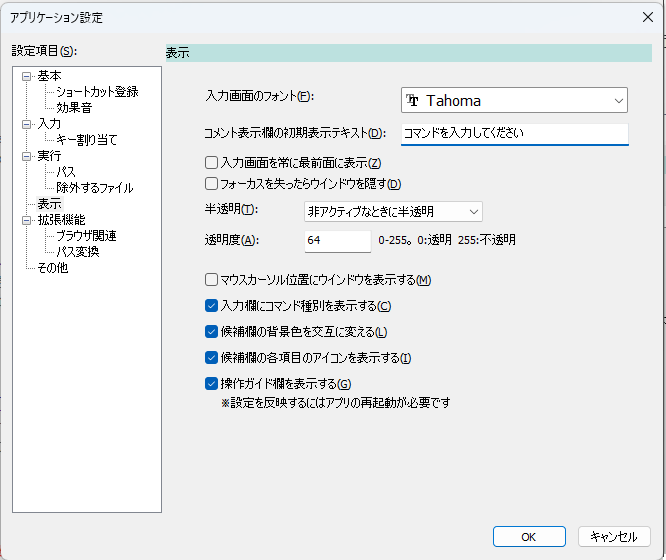
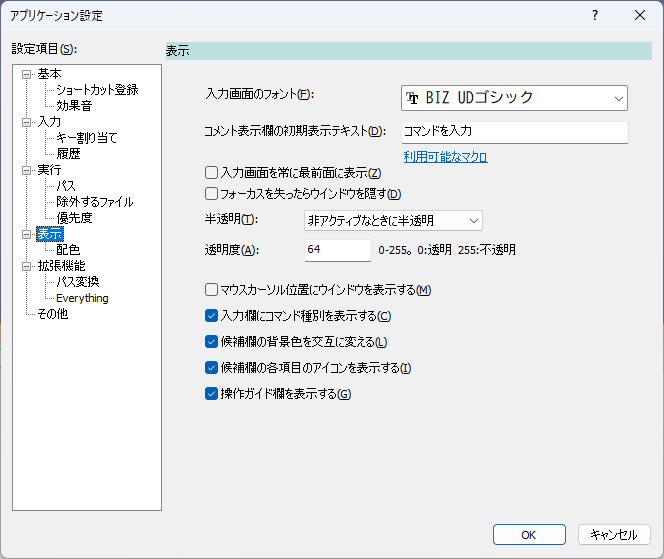
リサイズ時の処理を自前で行うようにした

diff --git a/soyokaze/mainwindow/MainWindowLayout.cpp b/soyokaze/mainwindow/MainWindowLayout.cpp
@@ -1,0 +1,186 @@
+#include "pch.h"
+#include "MainWindowLayout.h"
+#include "resource.h"
+#include "setting/AppPreference.h"
+#include "setting/AppPreferenceListenerIF.h"
+#include "SharedHwnd.h"
+
+#ifdef _DEBUG
+#define new DEBUG_NEW
+#endif
+
+struct MainWindowLayout::PImpl : public AppPreferenceListenerIF
+{
+	PImpl()
+	{
+		AppPreference::Get()->RegisterListener(this);
+	}
+	virtual ~PImpl()
+	{
+		AppPreference::Get()->UnregisterListener(this);
+	}
+
+	void OnAppFirstBoot() override
+	{
+	}
+	void OnAppNormalBoot() override {}
+
+	void OnAppPreferenceUpdated() override
+	{
+		AppPreference* pref = AppPreference::Get();
+		mIsShowGuide = pref->IsShowGuide();
+
+		SharedHwnd hwnd;
+		mThisPtr->RecalcControls(hwnd.GetHwnd());
+	}
+
+	void OnAppExit() override
+	{
+	}
+
+	bool IsShowGuide()
+	{
+		if (mIsFirstCall) {
+			AppPreference* pref = AppPreference::Get();
+			mIsShowGuide = pref->IsShowGuide();
+			mIsFirstCall = false;
+		}
+		return mIsShowGuide;
+	}
+
+	void MapWindowRect(HWND hwndFrom, HWND hwndTo, RECT* rc)
+	{
+		CPoint points[] = { CPoint(rc->left, rc->top), CPoint(rc->right, rc->bottom) };
+
+		MapWindowPoints(hwndFrom, hwndTo, points, 2);
+
+		rc->left = points[0].x;
+		rc->top = points[0].y;
+		rc->right = points[1].x;
+		rc->bottom = points[1].y;
+	}
+
+	MainWindowLayout* mThisPtr = nullptr;
+	bool mIsFirstCall = true;
+	bool mIsShowGuide = false;
+
+};
+
+MainWindowLayout::MainWindowLayout() : in(new PImpl)
+{
+	in->mThisPtr = this;
+}
+
+MainWindowLayout::~MainWindowLayout()
+{
+}
+
+void MainWindowLayout::RecalcWindowSize(HWND hwnd, UINT side, LPRECT rect)
+{
+	UNREFERENCED_PARAMETER(hwnd);
+	UNREFERENCED_PARAMETER(side);
+	UNREFERENCED_PARAMETER(rect);
+	// ToDo: 必要に応じて実装
+}
+
+void MainWindowLayout::RecalcControls(HWND hwnd)
+{
+	CWnd* parent = CWnd::FromHandle(hwnd);
+
+	// ウインドウ全体サイズとクライアント領域の差から外枠サイズを得る
+	CRect rcParentC;
+	parent->GetClientRect(&rcParentC);
+
+	CRect rcParent;
+	parent->GetWindowRect(&rcParent);
+
+	CSize sizeFrame(rcParent.Width() - rcParentC.Width(), rcParent.Height() - rcParentC.Height());
+
+	CPoint pt;
+	CRect rc;
+
+	auto iconLabel = parent->GetDlgItem(IDC_STATIC_ICON);
+	if (iconLabel == nullptr) {
+		// ウインドウ初期化が終わっていない場合はコントロールを取得できないのでここで抜ける
+		return;
+	}
+
+	// アイコン表示欄(移動もリサイズもしない)
+	CPoint ptIcon(2,2);
+	iconLabel->SetWindowPos(nullptr, pt.x, pt.y, 0, 0, SWP_NOZORDER | SWP_NOSIZE);
+	CRect rcIcon;
+	iconLabel->GetWindowRect(&rcIcon);
+
+	// コメント欄のリサイズ
+	auto comment = parent->GetDlgItem(IDC_STATIC_DESCRIPTION);
+
+	comment->GetWindowRect(&rc);
+
+	CPoint ptComment(ptIcon.x + rcIcon.Width() + 2, 2);
+
+	int cx = rcParentC.Width() - ptComment.x - 2;
+	int cy = rc.Height();
+
+	spdlog::debug("comment xywh=({},{},{},{})", ptComment.x, ptComment.y, cx, cy);
+	comment->SetWindowPos(nullptr, ptComment.x, ptComment.y, cx, cy, SWP_NOZORDER);
+	CRect rcComment;
+	comment->GetWindowRect(&rcComment);
+
+	comment->InvalidateRect(nullptr);
+	comment->UpdateWindow();
+
+	// ガイド欄を表示している場合はガイド欄のリサイズ
+	auto guide = parent->GetDlgItem(IDC_STATIC_GUIDE);
+
+	bool isShowGuide = in->IsShowGuide();
+	if (isShowGuide) {
+
+		guide->ShowWindow(SW_SHOW);
+
+		CPoint ptGuide(ptComment.x, ptComment.y + rcComment.Height()+1);
+
+		// 幅,高さ(cx,cy)はコメント欄と同じ
+		guide->SetWindowPos(nullptr, ptGuide.x, ptGuide.y, cx, cy, SWP_NOZORDER);
+
+		guide->InvalidateRect(nullptr);
+		guide->UpdateWindow();
+	}
+	else {
+		guide->ShowWindow(SW_HIDE);
+	}
+
+	// 入力欄
+	auto edit = parent->GetDlgItem(IDC_EDIT_COMMAND);
+	edit->GetWindowRect(&rc);
+
+	CPoint ptEdit(isShowGuide ? CPoint(ptIcon.x, ptIcon.y + rcIcon.Height() + 1)
+	                          : CPoint(ptComment.x, ptComment.y + rcComment.Height() + 1));		           
+
+	cx = rcParentC.Width() - ptEdit.x - 2;
+	cy = rc.Height();
+
+	edit->SetWindowPos(nullptr, ptEdit.x, ptEdit.y, cx, cy, SWP_NOZORDER);
+
+	edit->InvalidateRect(nullptr);
+	edit->UpdateWindow();
+
+	CRect rcEdit;
+	edit->GetWindowRect(&rcEdit);
+
+	// 候補欄
+	auto listCtrl = parent->GetDlgItem(IDC_LIST_CANDIDATE);
+
+	listCtrl->GetWindowRect(&rc);
+
+	CPoint ptList(ptIcon.x, ptEdit.y + rcEdit.Height() + 1);
+
+	cx = rcParentC.Width() - ptList.x - 2;
+	cy = rcParentC.Height() - ptList.y - 4;
+
+	listCtrl->SetWindowPos(nullptr, ptList.x, ptList.y, cx, cy, SWP_NOZORDER);
+
+	listCtrl->InvalidateRect(nullptr);
+	listCtrl->UpdateWindow();
+}
+
+

diff --git a/soyokaze/mainwindow/LauncherMainWindow.cpp b/soyokaze/mainwindow/LauncherMainWindow.cpp
@@ -8,6 +8,7 @@
 #include "app/Manual.h"
 #include "mainwindow/LauncherMainWindow.h"
 #include "mainwindow/CandidateListCtrl.h"
+#include "mainwindow/MainWindowLayout.h"
 #include "commands/core/CommandRepository.h"
 #include "commands/core/CommandParameter.h"
 #include "commands/common/Clipboard.h"
@@ -120,6 +121,8 @@ struct LauncherMainWindow::PImpl
 	UINT_PTR mInputTimerId = 0;
 
 	bool mShouldColorInit = true;
+
+	std::unique_ptr<MainWindowLayout> mLayout;
 };
 
 void LauncherMainWindow::PImpl::RestoreWindowPosition(CWnd* thisPtr, bool isForceReset)
@@ -170,10 +173,11 @@ void LauncherMainWindow::PImpl::UpdateCommandString(core::Command* cmd, int& sta
 // LauncherMainWindow ダイアログ
 
 LauncherMainWindow::LauncherMainWindow(CWnd* pParent /*=nullptr*/)
-	: CDialogEx(AppPreference::Get()->IsShowGuide() ? IDD_MAIN_GUIDE : IDD_MAIN, pParent),
+	: CDialogEx(IDD_MAIN_GUIDE, pParent),
 	in(std::make_unique<PImpl>(this))
 {
 	in->mWindowTransparencyPtr = std::make_unique<WindowTransparency>();
+	in->mLayout = std::make_unique<MainWindowLayout>();
 
 	in->mCandidateListBox.SetCandidateList(&in->mCandidates);
 	AppPreference::Get()->RegisterListener(this);
@@ -209,6 +213,7 @@ BEGIN_MESSAGE_MAP(LauncherMainWindow, CDialogEx)
 	ON_NOTIFY(LVN_ITEMCHANGED, IDC_LIST_CANDIDATE, OnLvnItemChange)
 	ON_NOTIFY(NM_CLICK, IDC_LIST_CANDIDATE, OnNMClick)
 	ON_NOTIFY(NM_DBLCLK, IDC_LIST_CANDIDATE, OnNMDblclk)
+	ON_WM_SIZING()
 	ON_WM_SIZE()
 	ON_MESSAGE(WM_APP+2, OnUserMessageActiveWindow)
 	ON_MESSAGE(WM_APP+3, OnUserMessageRunCommand)
@@ -1450,9 +1455,17 @@ void LauncherMainWindow::OnNMDblclk(NMHDR* pNMHDR, LRESULT* pResult)
 	OnOK();
 }
 
+void LauncherMainWindow::OnSizing(UINT side, LPRECT rect)
+{
+	__super::OnSizing(side, rect);
+	in->mLayout->RecalcWindowSize(GetSafeHwnd(), side, rect);
+	in->mLayout->RecalcControls(GetSafeHwnd());
+}
+
 void LauncherMainWindow::OnSize(UINT type, int cx, int cy)
 {
 	__super::OnSize(type, cx, cy);
+	in->mLayout->RecalcControls(GetSafeHwnd());
 
 	if (in->mCandidateListBox.GetSafeHwnd()) {
 		in->mCandidateListBox.UpdateSize(cx, cy);

diff --git a/soyokaze/mainwindow/MainWindowLayout.h b/soyokaze/mainwindow/MainWindowLayout.h
@@ -1,0 +1,21 @@
+#pragma once
+
+#include "mainwindow/MainWindowLayoutIF.h"
+
+// メインウインドウのリサイズ時にウインドウ上のコントロールを再計算する
+class MainWindowLayout : public MainWindowLayoutIF
+{
+public:
+	MainWindowLayout();
+	~MainWindowLayout() override;
+
+	// リサイズ中のメインウインドウのサイズ制限を決定する
+	void RecalcWindowSize(HWND hwnd, UINT side, LPRECT rect) override;
+	// リサイズ時のコントロール位置・サイズの再計算
+	void RecalcControls(HWND hwnd) override;
+
+private:
+	struct PImpl;
+	std::unique_ptr<PImpl> in;
+};
+

diff --git a/soyokaze/mainwindow/LauncherMainWindow.h b/soyokaze/mainwindow/LauncherMainWindow.h
@@ -96,6 +96,7 @@ protected:
 	afx_msg void OnLvnItemChange(NMHDR* pNMHDR, LRESULT* pResult);
 	afx_msg void OnNMClick(NMHDR* pNMHDR, LRESULT* pResult);
 	afx_msg void OnNMDblclk(NMHDR* pNMHDR, LRESULT* pResult);
+	afx_msg void OnSizing(UINT side, LPRECT rect);
 	afx_msg void OnSize(UINT type, int cx, int cy);
 	LRESULT OnUserMessageActiveWindow(WPARAM wParam, LPARAM lParam);
 	LRESULT OnUserMessageRunCommand(WPARAM wParam, LPARAM lParam);

diff --git a/soyokaze/mainwindow/MainWindowLayoutIF.h b/soyokaze/mainwindow/MainWindowLayoutIF.h
@@ -1,0 +1,12 @@
+#pragma once
+
+// メインウインドウのコントロールの配置(リサイズ)処理を実装するためのインタフェース
+class MainWindowLayoutIF
+{
+public:
+	virtual ~MainWindowLayoutIF() {}
+
+	virtual void RecalcWindowSize(HWND hwnd, UINT side, LPRECT rect) = 0;
+	virtual void RecalcControls(HWND hwnd) = 0;
+};
+

diff --git a/soyokaze/resource.h b/soyokaze/resource.h
@@ -6,7 +6,6 @@
 #define IDD_ABOUTBOX                    100
 #define IDS_ABOUTBOX                    101
 #define IDS_ERR_GROUPITEMEMPTY          102
-#define IDD_MAIN                        103
 #define ID_STRING_MISMATCH              104
 #define ID_STRING_DEFAULTDESCRIPTION    105
 #define IDS_MENUTEXT_SHOW               106

diff --git a/CHANGELOG.md b/CHANGELOG.md
@@ -2,11 +2,11 @@
 
 ## [Unreleased]
 
-なし
-
 ### Chanaged
 
 - [DirectoryIndex] 候補を表示する際の一致度の扱いを変更(部分一致→前方一致)
+- アプリ表示設定の`操作ガイド欄を表示する`を切り替えてもアプリ再起動しなくていいようにした
+  - リサイズ時のレイアウト処理を自前でするようにした(CMFCDynamicLayoutManagerの機能を利用しない)
 
 ### Fixed
 
